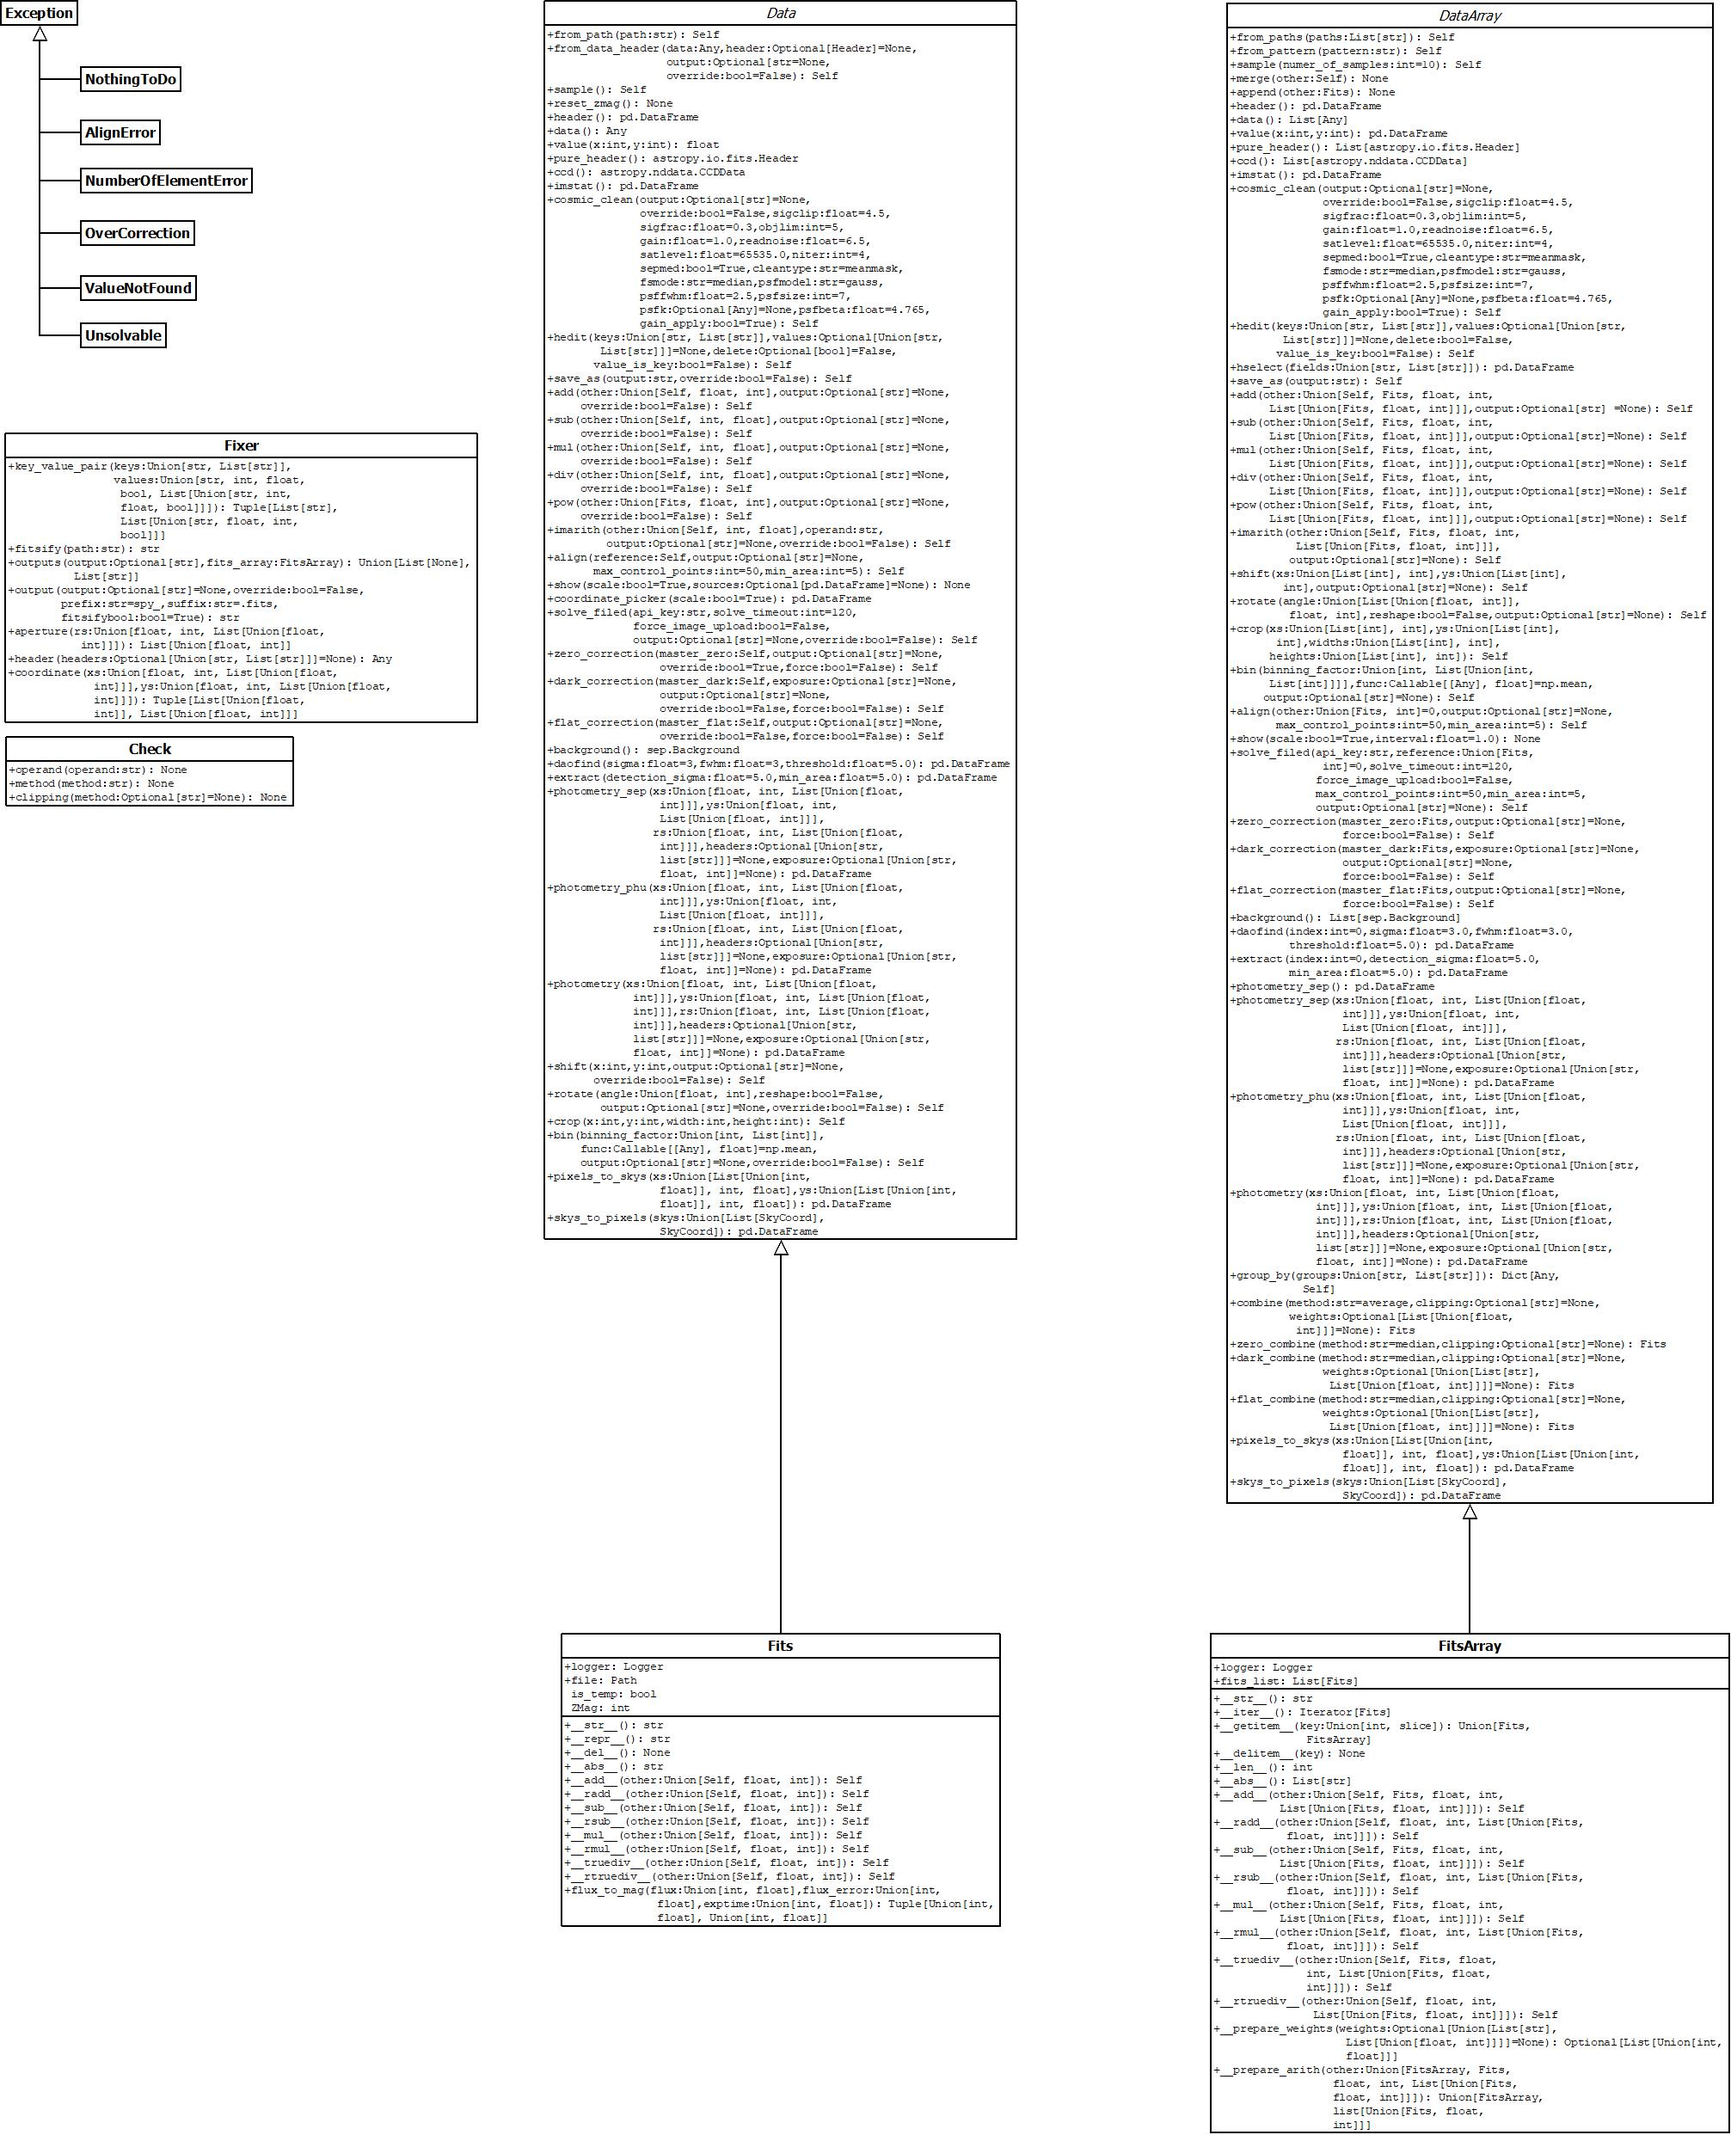
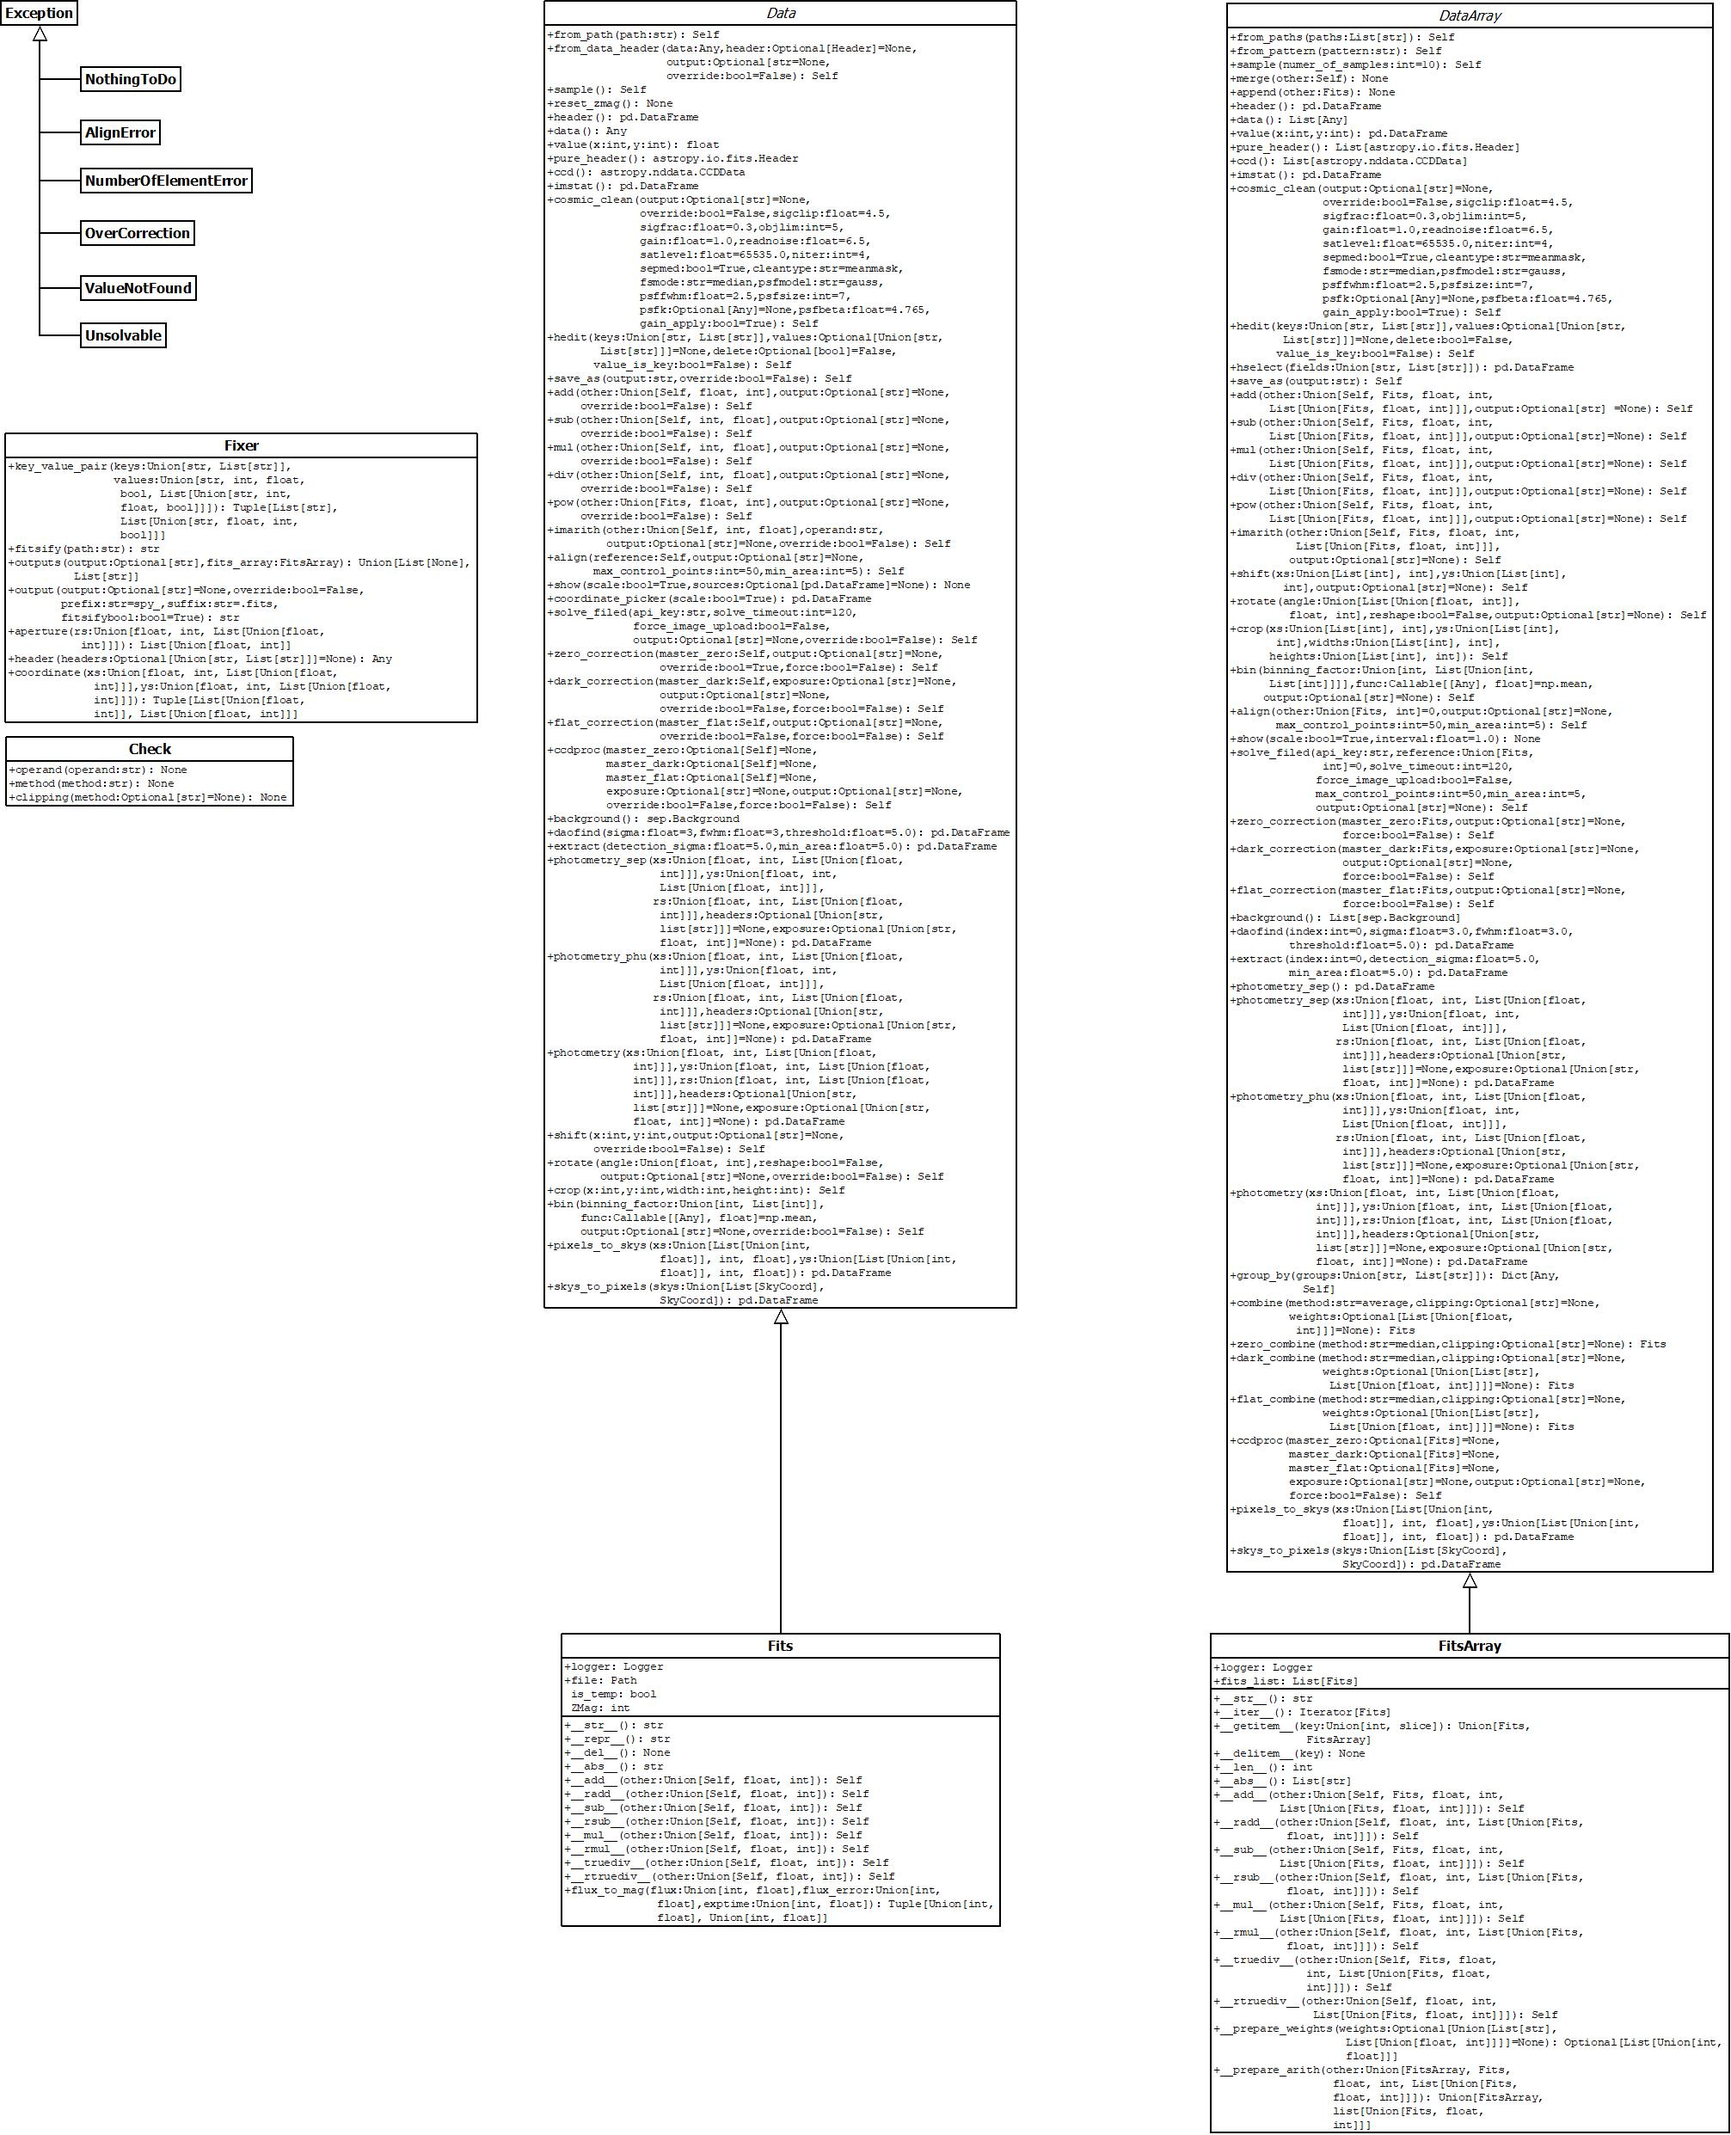
ccdproc added
A new method added to do all zero, dark  and flat corrections at once.

Changed region(s): [[0.308, 0.3411, 0.5544, 0.6202], [0.7084, 0.6512, 0.924, 0.7443]]

diff --git a/src/spy/fits.py b/src/spy/fits.py
@@ -1147,7 +1147,7 @@ class Fits(Data):
                 options = {"dark_exposure": 1 * units.s,
                            "data_exposure": 1 * units.s}
             else:
-                if exposure not in master_dark.header() or \
+                if exposure not in self.header() or \
                         exposure not in master_dark.header():
                     self.logger.error(f"Key {exposure} not found in file, master_dark or both")
                     raise CardNotFound(f"Key {exposure} not found in file, master_dark or both")
@@ -1215,6 +1215,79 @@ class Fits(Data):
 
         self.logger.error("This Data is already flat corrected")
         raise OverCorrection("This Data is already flat corrected")
+
+    def ccdproc(self, master_zero: Optional[Self] = None, master_dark: Optional[Self] = None,
+                master_flat: Optional[Self] = None, exposure: Optional[str] = None, output: Optional[str] = None,
+                override: bool = False, force: bool = False) -> Self:
+        """
+        Does ccdproc correction of the data. can be zero, dark, or flat in any combination
+
+        Parameters
+        ----------
+        master_zero : Optional[Self]
+            Zero file to be used for correction
+        master_dark : Optional[Self]
+            Dark file to be used for correction
+        master_flat : Optional[Self]
+            Flat file to be used for correction
+        exposure : str, optional
+            header card containing exptime
+        output: str, optional
+            Path of the new fits file.
+        override: bool, default=False
+            If True will overwrite the output if a file is already exists.
+        force: bool, default=False
+            Overcorrection flag
+
+        Returns
+        -------
+        Self
+            ccd corrected `Fits` object
+        """
+        self.logger.info("Making ccd correction on the image")
+
+        if all(each is None for each in [master_zero, master_dark, master_flat]):
+            raise NothingToDo("None of master Zero, Dark, or Flat is not provided")
+
+        corrected = self.ccd()
+        header = self.pure_header()
+        if master_zero:
+            if "SPY_ZERO" not in self.header() or force:
+                corrected = subtract_bias(corrected, master_zero.ccd())
+                header["SPY_ZERO"] = master_zero.file.name
+
+        if master_dark:
+            if "SPY_DARK" not in self.header() or force:
+                if exposure is None:
+                    options = {"dark_exposure": 1 * units.s,
+                               "data_exposure": 1 * units.s}
+                else:
+                    if exposure not in self.header() or \
+                            exposure not in master_dark.header():
+                        self.logger.error(f"Key {exposure} not found in file, master_dark or both")
+                        raise CardNotFound(f"Key {exposure} not found in file, master_dark or both")
+
+                    options = {
+                        "dark_exposure": float(
+                            master_dark.header()[exposure].values[0]) * units.s,
+                        "data_exposure": float(
+                            self.header()[exposure].values[0]) * units.s
+                    }
+                corrected = subtract_dark(
+                    corrected, master_dark.ccd(),
+                    **options, scale=True
+                )
+                header["SPY_DARK"] = master_dark.file.name
+
+        if master_flat:
+            if "SPY_FLAT" not in self.header() or force:
+                corrected = flat_correct(corrected, master_flat.ccd())
+                header["SPY_FLAT"] = master_flat.file.name
+
+        return self.__class__.from_data_header(
+            corrected.data, header=header,
+            output=output, override=override
+        )
 
     def background(self) -> Background:
         """

diff --git a/src/spy/fitsarray.py b/src/spy/fitsarray.py
@@ -19,7 +19,7 @@ from matplotlib import pyplot as plt, animation
 from sep import Background
 from typing_extensions import Self
 
-from .error import NumberOfElementError, OverCorrection, Unsolvable
+from .error import NumberOfElementError, OverCorrection, Unsolvable, NothingToDo
 from .fits import Fits
 from .models import DataArray, NUMERICS
 from .utils import Fixer, Check
@@ -1314,6 +1314,53 @@ class FitsArray(DataArray):
                                                       output=output_fit,
                                                       force=force)
                 fits_array.append(flat_corrected)
+            except OverCorrection:
+                fits_array.append(fits)
+            except Exception as error:
+                self.logger.error(error)
+
+        return self.__class__(fits_array)
+
+    def ccdproc(self, master_zero: Optional[Fits] = None, master_dark: Optional[Fits] = None,
+                master_flat: Optional[Fits] = None, exposure: Optional[str] = None, output: Optional[str] = None,
+                force: bool = False) -> Self:
+        """
+        Does ccd correction of the data
+
+        Parameters
+        ----------
+        master_zero : Optional[Fits]
+            Zero file to be used for correction
+        master_dark : Optional[Fits]
+            Dark file to be used for correction
+        master_flat : Optional[Fits]
+            Flat file to be used for correction
+        exposure : str, optional
+            header card containing exptime
+        output: Optional[str]
+            New path to save the files.
+        force: bool, default=False
+            Overcorrection flag
+
+        Returns
+        -------
+        Self
+            ccd corrected `FitsArray` object
+        """
+        self.logger.info("Making ccd correction on the image")
+
+        if all(each is None for each in [master_zero, master_dark, master_flat]):
+            raise NothingToDo("None of master Zero, Dark, or Flat is not provided")
+
+        fits_array = []
+        outputs = Fixer.outputs(output, self)
+        for fits, output_fit in zip(self, outputs):
+            try:
+                ccd_corrected = fits.ccdproc(
+                    master_zero=master_zero, master_dark=master_dark, master_flat=master_flat,
+                    exposure=exposure, output=output_fit, force=force
+                )
+                fits_array.append(ccd_corrected)
             except OverCorrection:
                 fits_array.append(fits)
             except Exception as error:

diff --git a/tests/test_fits_array.py b/tests/test_fits_array.py
@@ -13,7 +13,7 @@ import numpy as np
 
 from astropy.io.fits.header import Header
 
-from spy.error import NumberOfElementError, Unsolvable
+from spy.error import NumberOfElementError, Unsolvable, NothingToDo
 
 
 class TestFitsArray(unittest.TestCase):
@@ -1549,6 +1549,36 @@ class TestFitsArray(unittest.TestCase):
                     division[~np.isnan(division)][0]
                 )
             )
+
+    def test_ccdproc(self):
+        new_fits_array = self.SAMPLE.ccdproc(
+            master_zero=self.SAMPLE[0],
+            master_dark=self.SAMPLE[0],
+            master_flat=self.SAMPLE[0]
+        )
+        self.assertIsInstance(new_fits_array, FitsArray)
+
+    def test_ccdproc_only_zero(self):
+        new_fits_array = self.SAMPLE.ccdproc(
+            master_zero=self.SAMPLE[0]
+        )
+        self.assertIsInstance(new_fits_array, FitsArray)
+
+    def test_ccdproc_only_dark(self):
+        new_fits_array = self.SAMPLE.ccdproc(
+            master_dark=self.SAMPLE[0]
+        )
+        self.assertIsInstance(new_fits_array, FitsArray)
+
+    def test_ccdproc_only_flat(self):
+        new_fits_array = self.SAMPLE.ccdproc(
+            master_flat=self.SAMPLE[0]
+        )
+        self.assertIsInstance(new_fits_array, FitsArray)
+
+    def test_ccdproc_nothing_to_do(self):
+        with self.assertRaises(NothingToDo):
+            _ = self.SAMPLE.ccdproc()
 
     def test_background(self):
         list_of_background = self.SAMPLE.background()

diff --git a/tests/test_fits.py b/tests/test_fits.py
@@ -955,6 +955,36 @@ class TestFits(unittest.TestCase):
             self.SAMPLE.data().shape[1] // 10, binned.data().shape[1]
         )
 
+    def test_ccdproc(self):
+        corrected = self.SAMPLE.ccdproc(
+            master_zero=self.SAMPLE,
+            master_dark=self.SAMPLE,
+            master_flat=self.SAMPLE
+        )
+        self.assertIsInstance(corrected, Fits)
+
+    def test_ccdproc_only_zero(self):
+        corrected = self.SAMPLE.ccdproc(
+            master_zero=self.SAMPLE
+        )
+        self.assertIsInstance(corrected, Fits)
+
+    def test_ccdproc_only_dark(self):
+        corrected = self.SAMPLE.ccdproc(
+            master_dark=self.SAMPLE
+        )
+        self.assertIsInstance(corrected, Fits)
+
+    def test_ccdproc_only_flat(self):
+        corrected = self.SAMPLE.ccdproc(
+            master_flat=self.SAMPLE
+        )
+        self.assertIsInstance(corrected, Fits)
+
+    def test_ccdproc_nothing_to_do(self):
+        with self.assertRaises(NothingToDo):
+            _ = self.SAMPLE.ccdproc()
+
 
 if __name__ == '__main__':
     unittest.main()

diff --git a/src/spy/models.py b/src/spy/models.py
@@ -155,6 +155,12 @@ class Data(ABC):
         ...
 
     @abstractmethod
+    def ccdproc(self, master_zero: Optional[Self] = None, master_dark: Optional[Self] = None,
+                master_flat: Optional[Self] = None, exposure: Optional[str] = None, output: Optional[str] = None,
+                override: bool = False, force: bool = False) -> Self:
+        ...
+
+    @abstractmethod
     def background(self) -> Background:
         ...
 
@@ -376,6 +382,12 @@ class DataArray(ABC):
     @abstractmethod
     def flat_correction(self, master_flat: Fits,
                         output: Optional[str] = None, force: bool = False) -> Self:
+        ...
+
+    @abstractmethod
+    def ccdproc(self, master_zero: Optional[Fits] = None, master_dark: Optional[Fits] = None,
+                master_flat: Optional[Fits] = None, exposure: Optional[str] = None, output: Optional[str] = None,
+                force: bool = False) -> Self:
         ...
 
     @abstractmethod

diff --git a/README.md b/README.md
@@ -7,7 +7,7 @@ Simpler PYraf
 ![UML](docs/spy.png "spy UML")
 
 [![spy](https://github.com/mshemuni/spy/actions/workflows/python-package.yml/badge.svg)](https://github.com/mshemuni/spy/actions/workflows/python-package.yml)
-[![spy](https://img.shields.io/badge/coverage-79%25-31c553)](https://github.com/mshemuni/spy/actions/workflows/python-package.yml)
+[![spy](https://img.shields.io/badge/coverage-78%25-31c553)](https://github.com/mshemuni/spy/actions/workflows/python-package.yml)
 [![spy](https://img.shields.io/badge/Win-%E2%9C%93-f5f5f5?logo=windows11)](https://github.com/mshemuni/spy/actions/workflows/python-package.yml)
 [![spy](https://img.shields.io/badge/Ubuntu-%E2%9C%93-e95420?logo=Ubuntu)](https://github.com/mshemuni/spy/actions/workflows/python-package.yml)
 [![spy](https://img.shields.io/badge/MacOS-%E2%9C%93-dadada?logo=macos)](https://github.com/mshemuni/spy/actions/workflows/python-package.yml)
